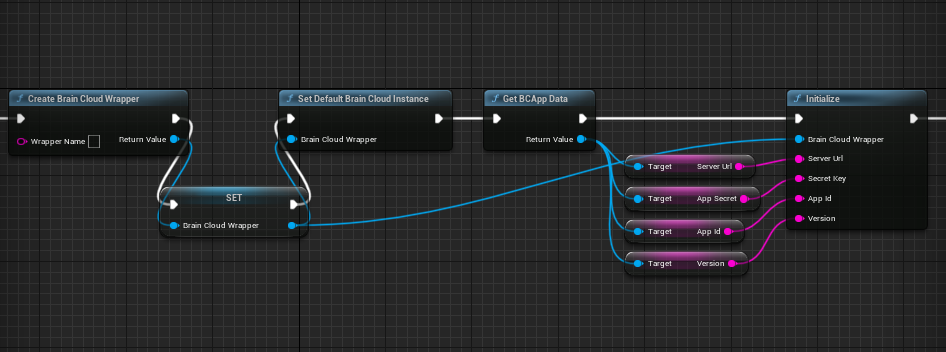
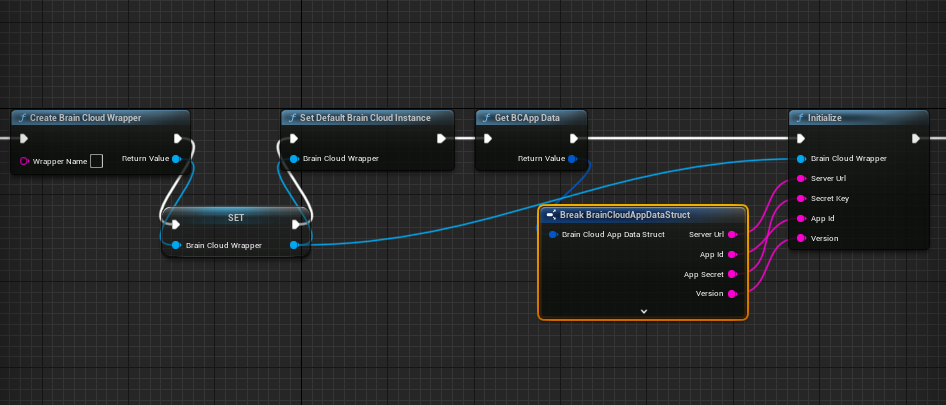
Fixed more formatting issues and updated screenshot of bc initialization

Changed region(s): [[0.0, 0.25, 1.0, 0.8125]]

diff --git a/README.md b/README.md
@@ -96,12 +96,16 @@ It is recommended to use the wrapper by default.
 ***Using the brainCloud Utility Widget***
 
 If you restarted the Unreal Editor a second time once the brainCloud plugins modules have been built and initialized, you will have the brainCloud Utility Widget at your disposal to edit the projects brainCloud app settings.
+
 For Unreal Engine 4, this is located at the end of your main toolbar: 
+
 ![utility](/screenshots/_bc-UE4toolmenu.png?raw=true)
-And for Unreal Engine 5, it is located in the Tools submenu: 
+And for Unreal Engine 5, it is located in the Tools submenu under the brainCloud section: 
+
 ![utility](/screenshots/_bc-UE5toolmenu.png?raw=true)
 
 When you click this button a new Editor widget window will open that looks like this. (You can also drag and dock it as a tab in any layout frame)
+
 ![utility](/screenshots/bcWidget.png?raw=true)
 
 When you click update to save these settings, it is important to restart your Unreal Editor after for these changes to take effect.
@@ -130,7 +134,9 @@ You can then use these values in your project with the GetBCAppData blueprint fu
 
 3. Set the Default brainCloud instance to your wrapper - this allows Singleton functionality, and you won't need to pass the wrapper into each function call, unless needed.
 
-4. Initialize brainCloud with your app credentials 
+4. Get the brainCloud app credentials using GetBCAppData
+
+5. Initialize brainCloud with your app credentials 
 
 Your Secret Key, and App Id, is set on the brainCloud dashboard. Under Design | Core App Info > Application IDs
 
